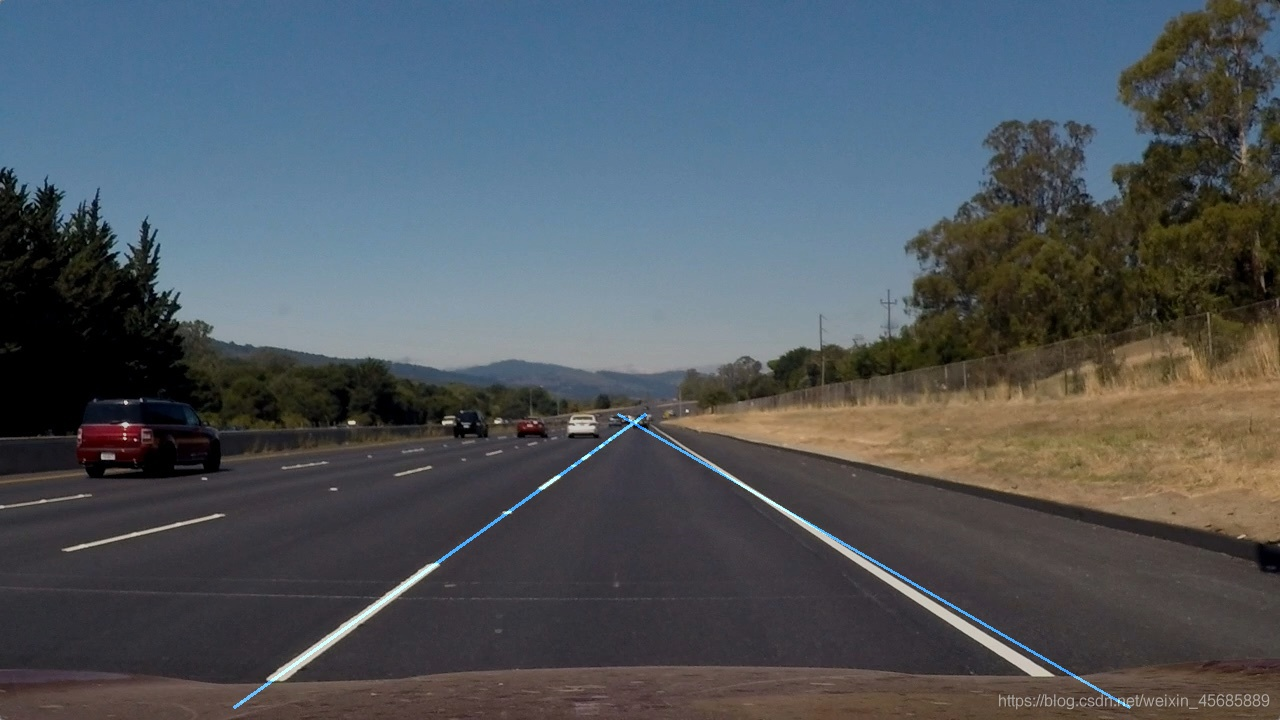
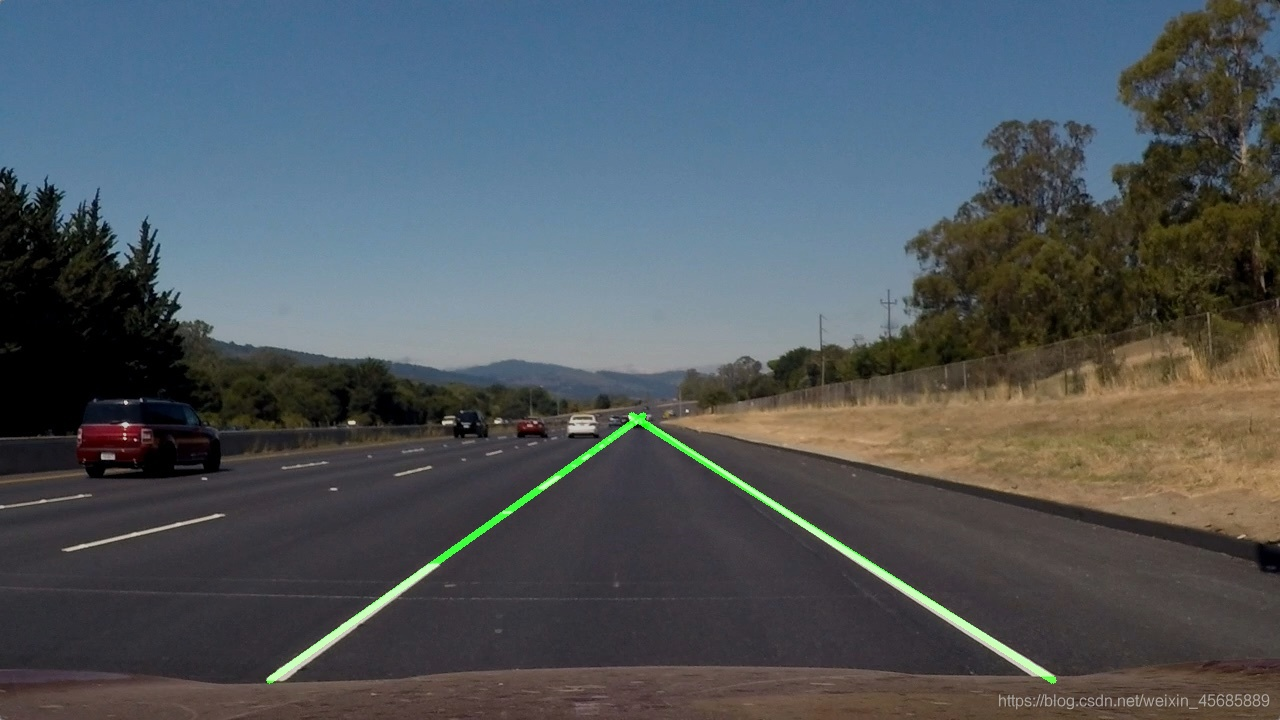
line detection bug fix

diff --git a/openCVLine/main.py b/openCVLine/main.py
@@ -1,10 +1,11 @@
+# references: https://blog.csdn.net/weixin_40693859/article/details/95009497
+#             https://blog.csdn.net/weixin_40693859/article/details/95011875
+
 import cv2
-import matplotlib.pyplot as plt
 import numpy
-import math
 import subfunctions
 
-# read images andsign a image to process
+# read images and assign a image to process
 pic1Name = "20200717190632173"
 pic2Name = "20200717190731576"
 
@@ -13,31 +14,34 @@ nameFlag = pic2Name
 # image process
 imToProcess = cv2.imread(f"src/{nameFlag}.jpg")
 imshape = imToProcess.shape  # H, W, channel
-gray=subfunctions.grayscale(imToProcess)
-kernel_size=5
-blur=subfunctions.gaussian_blur(gray, kernel_size)
-low_threshold=50
-high_threshold=200
-edges=subfunctions.canny(blur, low_threshold, high_threshold)
+gray = subfunctions.grayscale(imToProcess)
+kernel_size = 9
+blur = subfunctions.gaussian_blur(gray, kernel_size)
 #
-vertices=numpy.array([[(0,imshape[0]),(imshape[1]/2-20, imshape[0]/2+50),
-                        (imshape[1]/2+20, imshape[0]/2+50),
-                    (imshape[1],imshape[0]),(0,500),(960,500)]],
-                      dtype=numpy.int32)
-partial=subfunctions.region_of_interest(edges,vertices)
+low_threshold = 50
+high_threshold = 200
+edges = subfunctions.canny(blur, low_threshold, high_threshold)
 #
-rho=1
-theta=numpy.pi/180
-threshold=13
-min_line_len=15
-max_line_gap=10
-lines=subfunctions.hough_lines(partial, rho, theta, threshold, min_line_len, max_line_gap)
+vertices = numpy.array([[(0, imshape[0]), (imshape[1] / 2 - 20, imshape[0] / 2 + 50),
+                         (imshape[1] / 2 + 20, imshape[0] / 2 + 50),
+                         (imshape[1], imshape[0])]],
+                       dtype=numpy.int32)  # rectangle area
+partial = subfunctions.region_of_interest(edges, vertices)
 #
-final=subfunctions.weighted_img(lines,imToProcess)
+rho = 1
+theta = numpy.pi / 180
+threshold = 13
+min_line_len = 15
+max_line_gap = 10
+lines = subfunctions.hough_lines(partial, rho, theta, threshold, min_line_len, max_line_gap)
+#
+final = subfunctions.weighted_img(lines, imToProcess)
 
 # show images
-imList = [imToProcess, gray, blur, edges, partial, final]
-for image in imList:
-    subfunctions.show_image_in_window(image)
+if False:
+    imList = [imToProcess, gray, blur, edges, partial, lines, final]
+    for image in imList:
+        subfunctions.show_image_in_window(image)
+    cv2.destroyAllWindows()
 # save image
 cv2.imwrite(f"res/{nameFlag}.jpg", final)

diff --git a/openCVLine/subfunctions.py b/openCVLine/subfunctions.py
@@ -26,7 +26,7 @@ def gaussian_blur(img, kernel_size):
 
 def region_of_interest(img, vertices):
     mask = numpy.zeros_like(img)
-    print("mask_shape", mask.shape)
+    # print("mask_shape", mask.shape)
     if len(img.shape) > 2:
         channel_count = img.shape[2]  # i.e. 3 or 4 depending on your image
         ignore_mask_color = (255,) * channel_count
@@ -34,12 +34,14 @@ def region_of_interest(img, vertices):
         ignore_mask_color = 255
 
     cv2.fillPoly(mask, vertices, ignore_mask_color)
-
+    # show_image_in_window(mask)
     masked_image = cv2.bitwise_and(img, mask)
     return masked_image
 
 
-def draw_lines(img, lines, color=[255, 116, 10], thickness=2):
+def draw_lines(img, lines):
+    color = [0, 255, 0]  # RGB
+    thickness = 5
     left_lines_x = []
     left_lines_y = []
     right_lines_x = []
@@ -63,7 +65,6 @@ def draw_lines(img, lines, color=[255, 116, 10], thickness=2):
                 left_lines_x.append(x2)
                 left_lines_y.append(y2)
             elif k > 0.3:
-
                 right_lines_x.append(x1)
                 right_lines_y.append(y1)
                 right_lines_x.append(x2)
@@ -80,7 +81,7 @@ def draw_lines(img, lines, color=[255, 116, 10], thickness=2):
 
 def hough_lines(img, rho, theta, threshold, min_line_len, max_line_gap):
     lines = cv2.HoughLinesP(img, rho, theta, threshold, numpy.array([]), minLineLength=min_line_len, maxLineGap=max_line_gap)
-    print(lines.shape)
+    # print(lines.shape)
     line_img = numpy.zeros((img.shape[0], img.shape[1], 3), dtype=numpy.uint8)
     draw_lines(line_img, lines)
     return line_img
